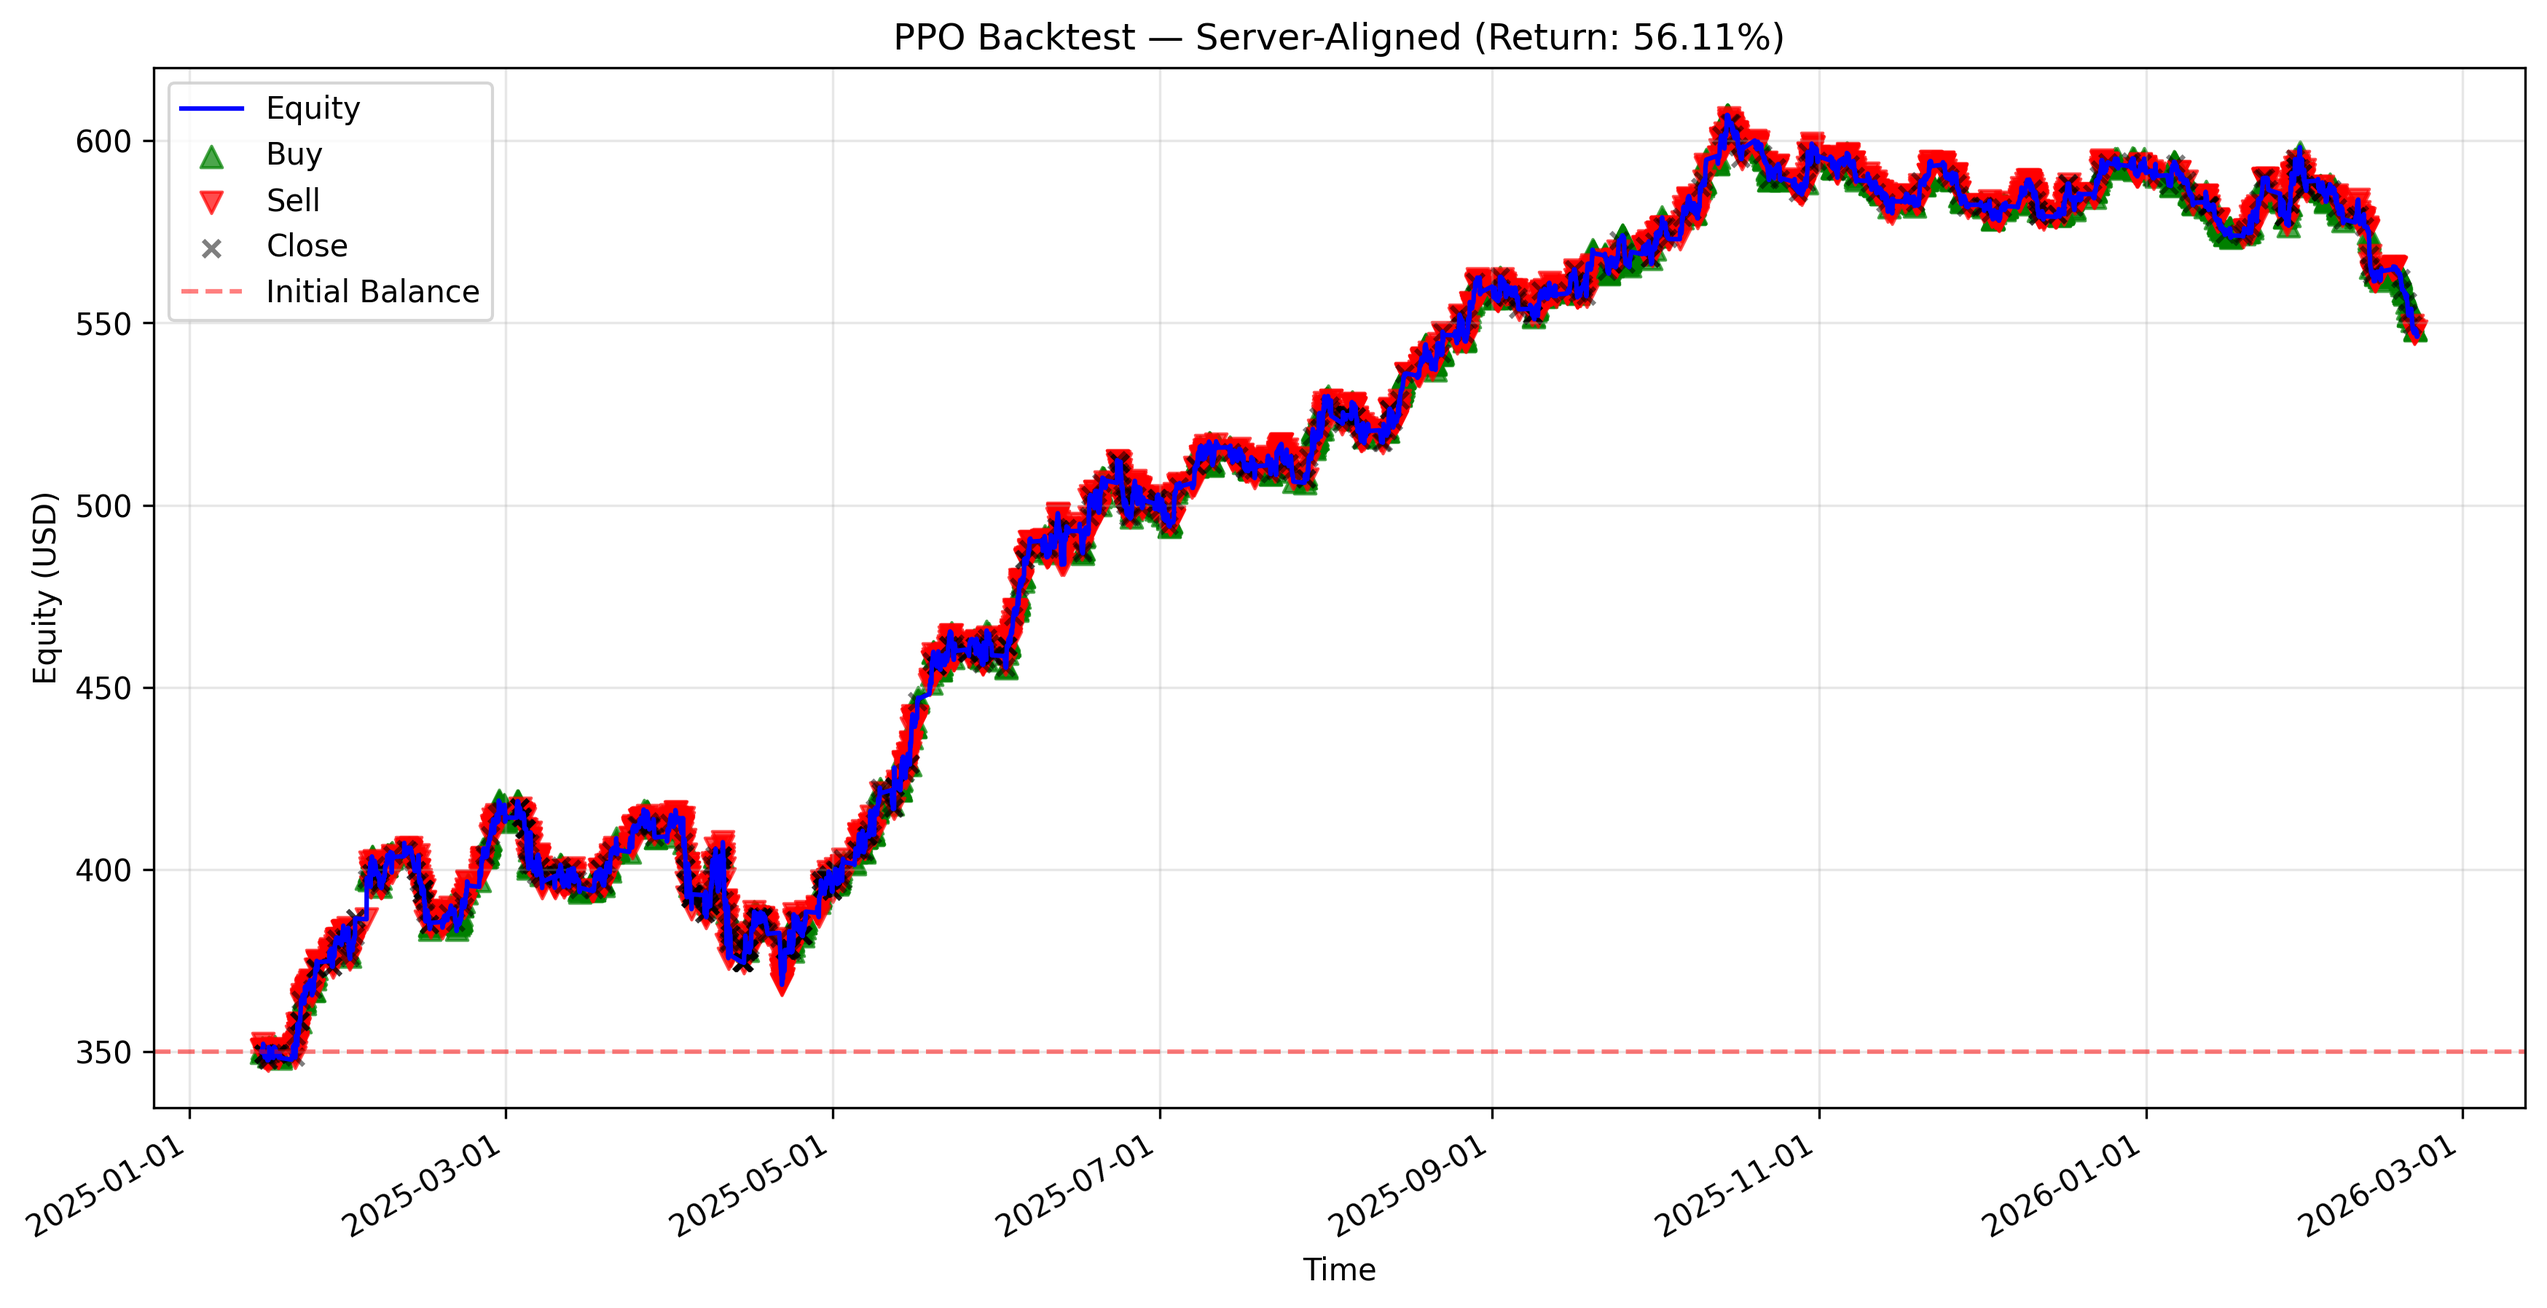
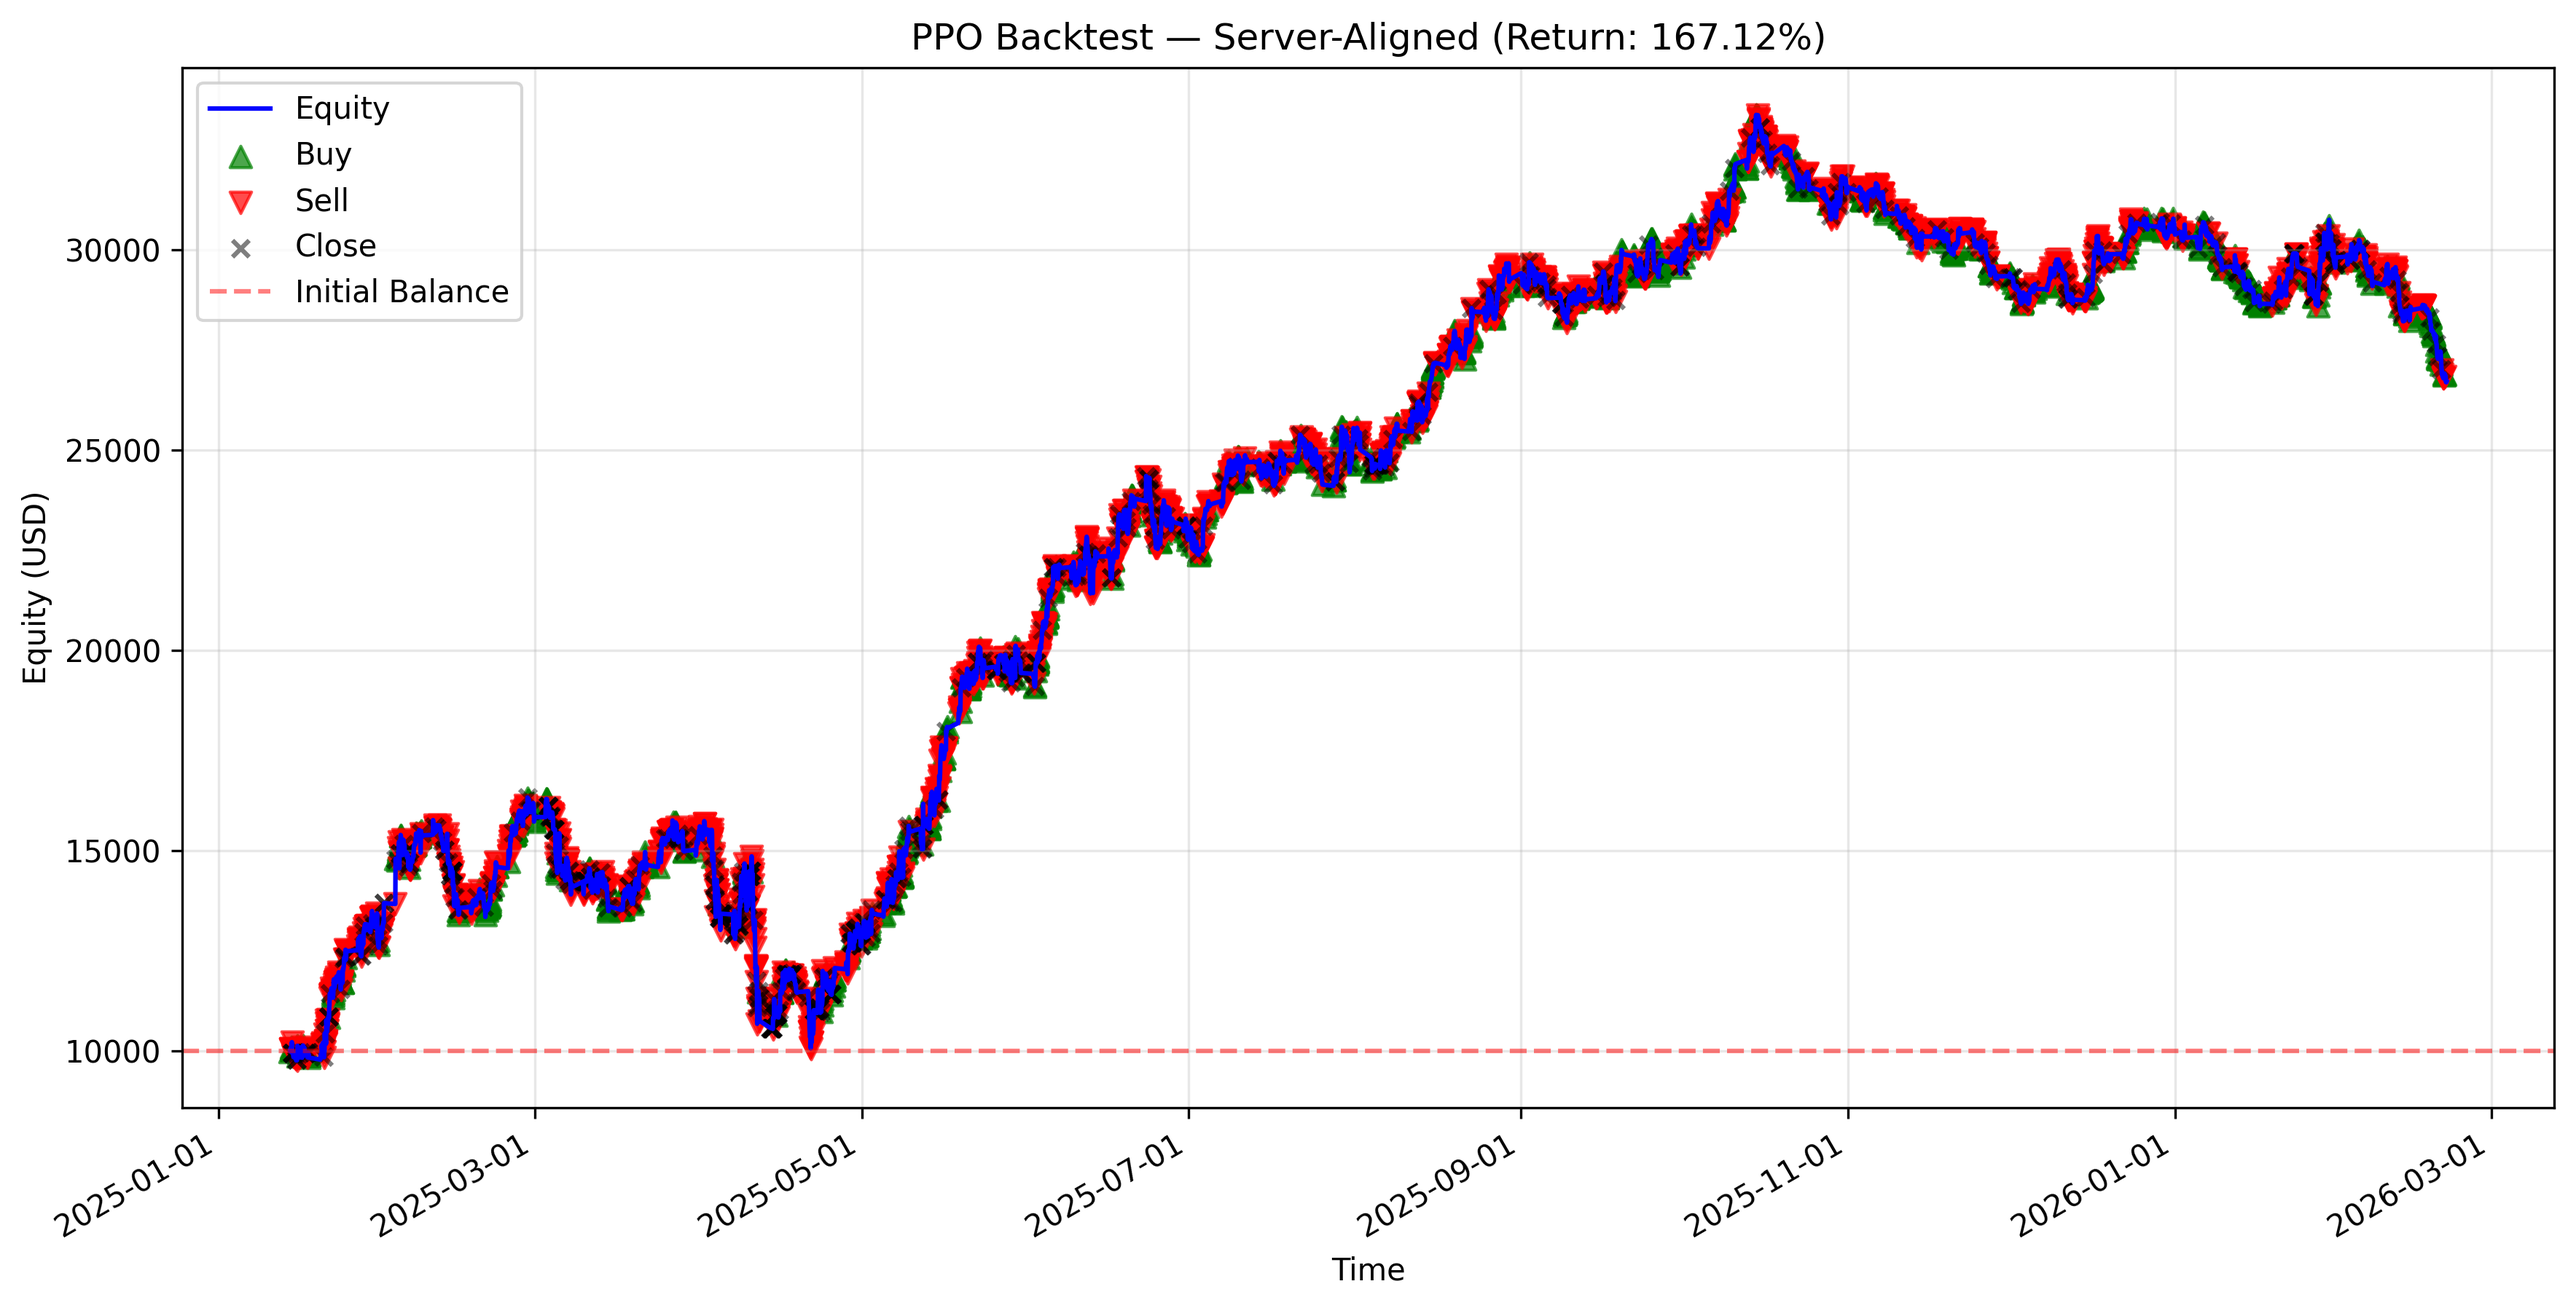
update

diff --git a/train/rl/mt5_strategy_tester/zmq_bridge_server.py b/train/rl/mt5_strategy_tester/zmq_bridge_server.py
@@ -40,15 +40,12 @@ SL_PIPS = 30
 TP_PIPS = 60
 SPREAD_PIPS = 2
 MAX_HOLD_STEPS = 30
-RISK_PERCENT = 1.0  # Risk % per trade (0 = use fixed LOT_SIZE below)
-LOT_SIZE = 0.1      # Fallback fixed lot
+RISK_PERCENT = 1.0  # Risk % per trade
 
 
 def calc_auto_lot(balance, risk_pct=RISK_PERCENT, sl_pips=SL_PIPS,
                   pip_value_per_lot=PIP_VALUE, min_lot=0.01, lot_step=0.01):
     """Risk-based position sizing (same formula as EA)"""
-    if risk_pct <= 0:
-        return LOT_SIZE
     risk_amount = balance * risk_pct / 100.0
     lot = risk_amount / (sl_pips * pip_value_per_lot)
     lot = max(min_lot, lot_step * int(lot / lot_step))
@@ -73,7 +70,7 @@ def load_model():
         'sma_cross': [0]*80, 'rsi_norm': [0]*80, 'atr_norm': [0]*80, 'trend': [0]*80
     }
     mock_df = pd.DataFrame(dummy_data)
-    dummy_env = DummyVecEnv([lambda: TradingEnv(mock_df, lot_size=LOT_SIZE, sl_pips=SL_PIPS, tp_pips=TP_PIPS)])
+    dummy_env = DummyVecEnv([lambda: TradingEnv(mock_df, lot_size=calc_auto_lot(INITIAL_BALANCE), sl_pips=SL_PIPS, tp_pips=TP_PIPS)])
     vec_norm = VecNormalize.load(VEC_NORM_PATH, dummy_env)
     vec_norm.training = False
     vec_norm.norm_reward = False
@@ -237,7 +234,7 @@ class PPOBridge:
             unrealized_ret = self.position * (current_price - self.entry_price) / self.entry_price
             unrealized_pips = self.position * (current_price - self.entry_price) / PIP_SIZE
             
-        total_pnl_pips = self.total_pnl / (PIP_VALUE * LOT_SIZE) if LOT_SIZE > 0 else 0.0
+        total_pnl_pips = self.total_pnl / (PIP_VALUE * self.lot_size) if self.lot_size > 0 else 0.0
 
         state_feat = np.array([
             self.position,
@@ -336,7 +333,7 @@ def main():
     print("="*60)
     print(f"📡 ZMQ Endpoint: {endpoint}")
     print(f"📊 Model: {MODEL_PATH}")
-    print(f"🎯 SL={SL_PIPS} pips | TP={TP_PIPS} pips | Lot={LOT_SIZE}")
+    print(f"🎯 SL={SL_PIPS} pips | TP={TP_PIPS} pips | Lot=Auto (Risk {RISK_PERCENT}%)")
     print(f"📈 Features: {len(FEATURE_COLUMNS)} | Window: {WINDOW_SIZE}")
     print(f"💡 State tracked internally (same as env_trading.py)")
     print("="*60)

diff --git a/train/rl/test_ppo.py b/train/rl/test_ppo.py
@@ -27,15 +27,12 @@ TP_PIPS = 60
 SPREAD_PIPS = 2
 MAX_HOLD_STEPS = 30
 BAR_HISTORY = 200  # Same as EA sends
-RISK_PERCENT = 1.0  # Risk % per trade (0 = use fixed LOT_SIZE below)
-LOT_SIZE = 0.1      # Fallback fixed lot
+RISK_PERCENT = 1.0  # Risk % per trade
 
 
 def calc_auto_lot(balance, risk_pct=RISK_PERCENT, sl_pips=SL_PIPS,
                   pip_value_per_lot=PIP_VALUE, min_lot=0.01, lot_step=0.01):
     """Risk-based position sizing (same formula as EA)"""
-    if risk_pct <= 0:
-        return LOT_SIZE
     risk_amount = balance * risk_pct / 100.0
     lot = risk_amount / (sl_pips * pip_value_per_lot)
     lot = max(min_lot, lot_step * int(lot / lot_step))
@@ -196,7 +193,7 @@ class PPOBridge:
             unrealized_ret = self.position * (current_price - self.entry_price) / self.entry_price
             unrealized_pips = self.position * (current_price - self.entry_price) / PIP_SIZE
             
-        total_pnl_pips = self.total_pnl / (PIP_VALUE * LOT_SIZE) if LOT_SIZE > 0 else 0.0
+        total_pnl_pips = self.total_pnl / (PIP_VALUE * self.lot_size) if self.lot_size > 0 else 0.0
 
         state_feat = np.array([
             self.position,
@@ -267,7 +264,7 @@ dummy_data = {
     'sma_cross': [0]*80, 'rsi_norm': [0]*80, 'atr_norm': [0]*80, 'trend': [0]*80
 }
 mock_df = pd.DataFrame(dummy_data)
-dummy_env = DummyVecEnv([lambda: TradingEnv(mock_df, lot_size=LOT_SIZE, sl_pips=SL_PIPS, tp_pips=TP_PIPS)])
+dummy_env = DummyVecEnv([lambda: TradingEnv(mock_df, lot_size=calc_auto_lot(INITIAL_BALANCE), sl_pips=SL_PIPS, tp_pips=TP_PIPS)])
 vec_norm = VecNormalize.load("vec_normalize.pkl", dummy_env)
 vec_norm.training = False
 vec_norm.norm_reward = False

diff --git a/train/rl/run_live.py b/train/rl/run_live.py
@@ -18,12 +18,12 @@ mt5 = MetaTrader5(host="localhost", port=8001)
 # ==================================================
 SYMBOL = "EURUSD"
 TIMEFRAME = mt5.TIMEFRAME_H1
-LOT_SIZE = 0.01         # Fallback fixed lot (used when RISK_PERCENT=0)
+LOT_SIZE_FALLBACK = 0.01  # Min lot fallback (used only if calc fails)
 MAGIC_NUMBER = 123456
 MODEL_PATH = "ppo_trading.zip"
 VEC_NORM_PATH = "vec_normalize.pkl"
 DEVIATION = 20
-RISK_PERCENT = 1.0      # Risk % per trade (0 = use fixed LOT_SIZE)
+RISK_PERCENT = 1.0      # Risk % per trade
 
 # ==================================================
 # SL/TP CONFIGURATION
@@ -36,8 +36,6 @@ PIP_VALUE_PER_LOT = 10.0  # $10 per pip for 1 standard lot on EURUSD
 def calc_auto_lot(balance, risk_pct=RISK_PERCENT, sl_pips=SL_PIPS,
                   pip_value_per_lot=PIP_VALUE_PER_LOT, min_lot=0.01, lot_step=0.01):
     """Risk-based position sizing"""
-    if risk_pct <= 0:
-        return LOT_SIZE
     risk_amount = balance * risk_pct / 100.0
     lot = risk_amount / (sl_pips * pip_value_per_lot)
     lot = max(min_lot, lot_step * int(lot / lot_step))
